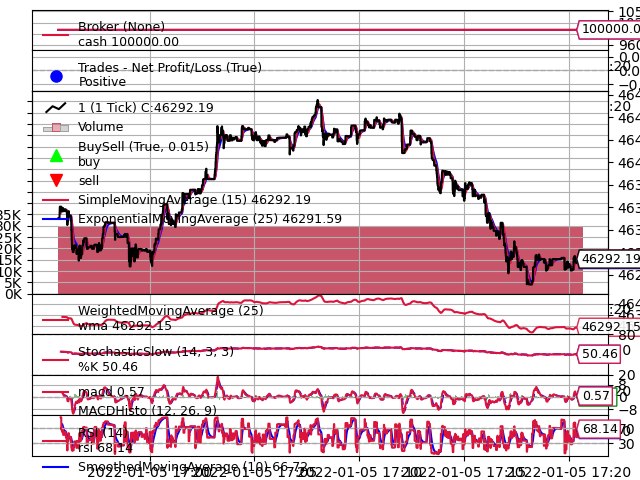
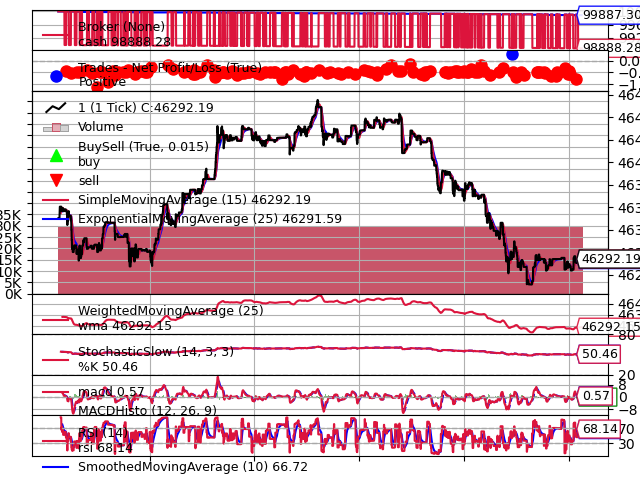
1

diff --git a/main.py b/main.py
@@ -98,7 +98,6 @@ class TestStrategy1(bt.Strategy):
         # 如果有订单正在挂起，不操作
         if self.order:
             return
-
         # 如果没有持仓则买入
         if not self.position:
             # 今天的收盘价在均线价格之上 
@@ -106,14 +105,14 @@ class TestStrategy1(bt.Strategy):
                 # 买入
                 self.log('买入单, %.2f' % self.dataclose[0])
                     # 跟踪订单避免重复
-                self.order = self.buy(price=0.2)
+                self.order = self.buy(size=1)
         else:
             # 如果已经持仓，收盘价在均线价格之下
             if self.dataclose[0] < self.sma[0]:
                 # 全部卖出
                 self.log('卖出单, %.2f' % self.dataclose[0])
                 # 跟踪订单避免重复
-                self.order = self.sell(price=0.2)
+                self.order = self.buy(size=1)
 
 # Create a Stratey
 class TestStrategy(bt.Strategy):
@@ -153,7 +152,7 @@ class TestStrategy(bt.Strategy):
 
 def main():
     cerebro = bt.Cerebro(stdstats=True)
-
+    print("====>>>>",BINANCE.get("key"),BINANCE.get("secret"))
     if ENV == PRODUCTION:  # Live trading with Binance
         broker_config = {
             'apiKey': BINANCE.get("key"),
@@ -165,7 +164,7 @@ def main():
         }
 
         store = CCXTStore(exchange='binanceusdm', currency=COIN_REFER, config=broker_config, retries=5, debug=False,
-                          sandbox=True)
+                          sandbox=False)
 
         broker_mapping = {
             'order_types': {
@@ -189,24 +188,24 @@ def main():
         cerebro.setbroker(broker)
 
         hist_start_date = dt.datetime.utcnow() - dt.timedelta(minutes=3000)
-        with open('dataset/symbol_config.yaml', mode='r') as f:
-            symbol_config = f.read()
-            symbol_config = yaml.load(  symbol_config, Loader=yaml.FullLoader)
-            for symbol in symbol_config.keys():
-                datakl = store.getdata(
-                    dataname=f'{symbol}',
-                    name=f'{symbol}',
+        data = store.getdata(
+                    dataname=f'{"BTCUSDT"}',
+                    name=f'{"BTCUSDT"}',
                     timeframe=bt.TimeFrame.Minutes,
                     fromdate=hist_start_date,
                     compression=1,
                     ohlcv_limit=10000
                 )
-                dataha = datakl.clone()
-                dataha.addfilter(bt.filters.HeikinAshi(dataha))
-                # Add the feed
-                cerebro.adddata(datakl, name=f'{symbol}_Kline')
-                cerebro.adddata(dataha, name=f'{symbol}_Heikin')
 
+        cerebro.adddata(data)
+        # data = cerebro.resampledata(data,
+        #                         timeframe=bt.TimeFrame.Ticks,
+        #                         compression=1)
+
+
+
+        cerebro.broker.setcommission(commission=0.0004)
+        cerebro.addsizer(FullMoney)
     else:  # Backtesting with CSV file
         data = btfeeds.GenericCSVData(
         dataname="1.txt",
@@ -217,30 +216,31 @@ def main():
         close=7, # 确认
         volume=16,
         openinterest=-1,
-        timeframe=bt.TimeFrame.Minutes, 
+        timeframe=bt.TimeFrame.Ticks, 
         compression=1,
     )
-      
-        data = cerebro.resampledata(data,
-                                timeframe=bt.TimeFrame.Ticks,
-                                compression=1)
+        cerebro.adddata(data)
+        # data = cerebro.resampledata(data,
+        #                         timeframe=bt.TimeFrame.Ticks,
+        #                         compression=1)
 
-        broker = cerebro.getbroker()
-        broker.setcommission(commission=0.0004, name=COIN_TARGET)  # Simulating exchange fee
-        broker.setcash(100000.0)
+        cerebro.broker.setcash(100000.0)
+        cerebro.broker.setcommission(commission=0.0004)
         cerebro.addsizer(FullMoney)
 
-
+    #bt.observers.BuySell = MyBuySell
 #    Analyzers to evaluate trades and strategies
-  #  SQN = Average( profit / risk ) / StdDev( profit / risk ) x SquareRoot( number of trades )
     cerebro.addanalyzer(bt.analyzers.TradeAnalyzer, _name="ta")
     cerebro.addanalyzer(bt.analyzers.SQN, _name="sqn")
-
     # Include Strategy
     cerebro.addstrategy(TestStrategy1)
     
+    # 引擎运行前打印期出资金
+    print('组合期初资金: %.2f' % cerebro.broker.getvalue())
     cerebro.run()
-    cerebro.plot(iplot=False)
+    # 引擎运行后打期末资金
+    print('组合期末资金: %.2f' % cerebro.broker.getvalue())
+    cerebro.plot()
 
 
 

diff --git a/config.py b/config.py
@@ -11,8 +11,8 @@ DEBUG = True
 
 # futures
 BINANCE = {
[2 lines of base64/hex data omitted]
+  "key": "",
+  "secret": ""
 }
 
 # spot

diff --git a/sizer/percent.py b/sizer/percent.py
@@ -3,5 +3,5 @@ from backtrader.sizers import PercentSizer
 
 class FullMoney(PercentSizer):
     params = (
-        ('percents', 1),
+        ('percents', 0.8),
     )
